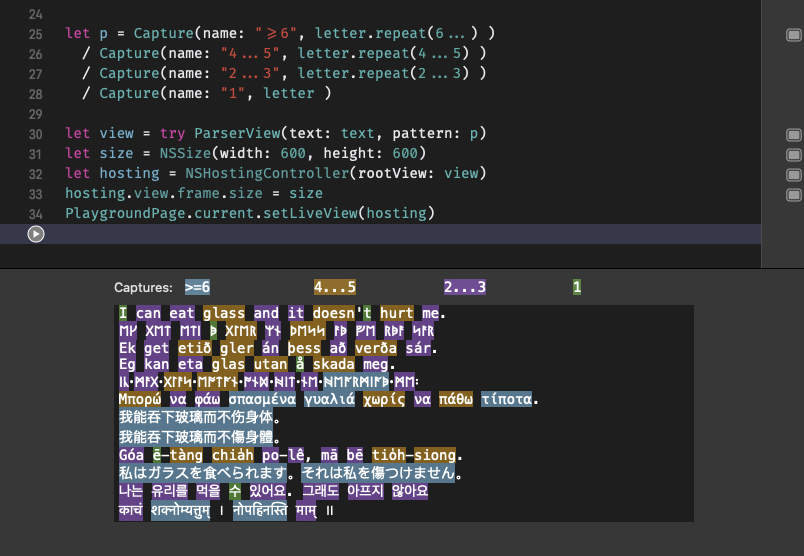
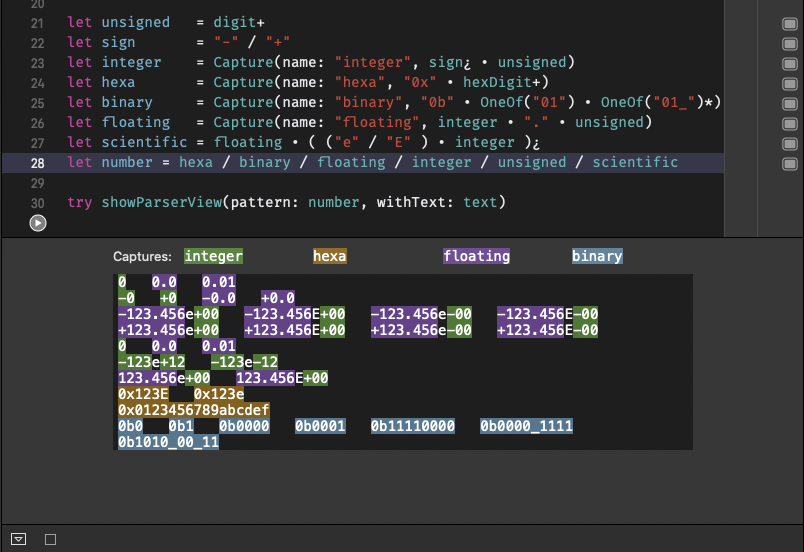
Improve playground example and screenshot.

diff --git a/Playground/MyPlayground.playground/Contents.swift b/Playground/MyPlayground.playground/Contents.swift
@@ -6,23 +6,25 @@
 import Patterns
 
 let text = """
-I can eat glass and it doesn't hurt me.
-ᛖᚴ ᚷᛖᛏ ᛖᛏᛁ ᚧ ᚷᛚᛖᚱ ᛘᚾ ᚦᛖᛋᛋ ᚨᚧ ᚡᛖ ᚱᚧᚨ ᛋᚨᚱ
-Ek get etið gler án þess að verða sár.
-Eg kan eta glas utan å skada meg.
-ᛁᚳ᛫ᛗᚨᚷ᛫ᚷᛚᚨᛋ᛫ᛖᚩᛏᚪᚾ᛫ᚩᚾᛞ᛫ᚻᛁᛏ᛫ᚾᛖ᛫ᚻᛖᚪᚱᛗᛁᚪᚧ᛫ᛗᛖ᛬
-Μπορώ να φάω σπασμένα γυαλιά χωρίς να πάθω τίποτα.
-我能吞下玻璃而不伤身体。
-我能吞下玻璃而不傷身體。
-Góa ē-tàng chia̍h po-lê, mā bē tio̍h-siong.
-私はガラスを食べられます。それは私を傷つけません。
-나는 유리를 먹을 수 있어요. 그래도 아프지 않아요
-काचं शक्नोम्यत्तुम् । नोपहिनस्ति माम् ॥
+0   0.0   0.01
+-0   +0   -0.0   +0.0
+-123.456e+00   -123.456E+00   -123.456e-00   -123.456E-00
++123.456e+00   +123.456E+00   +123.456e-00   +123.456E-00
+0   0.0   0.01
+-123e+12   -123e-12
+123.456e+00   123.456E+00
+0x123E   0x123e
+0x0123456789abcdef
+0b0   0b1   0b0000   0b0001   0b11110000   0b0000_1111   0b1010_00_11
 """
 
-let p = Capture(name: ">=6", letter.repeat(6...))
-	/ Capture(name: "4...5", letter.repeat(4 ... 5))
-	/ Capture(name: "2...3", letter.repeat(2 ... 3))
-	/ Capture(name: "1", letter)
+let unsigned = digit+
+let sign = "-" / "+"
+let integer = Capture(name: "integer", sign¿ • unsigned)
+let hexa = Capture(name: "hexa", "0x" • hexDigit+)
+let binary = Capture(name: "binary", "0b" • OneOf("01") • OneOf("01_")*)
+let floating = Capture(name: "floating", integer • "." • unsigned)
+let scientific = floating • (("e" / "E") • integer)¿
+let number = hexa / binary / floating / integer / unsigned / scientific
 
-try showParserView(pattern: p, withText: text)
+try showParserView(pattern: number, withText: text)
